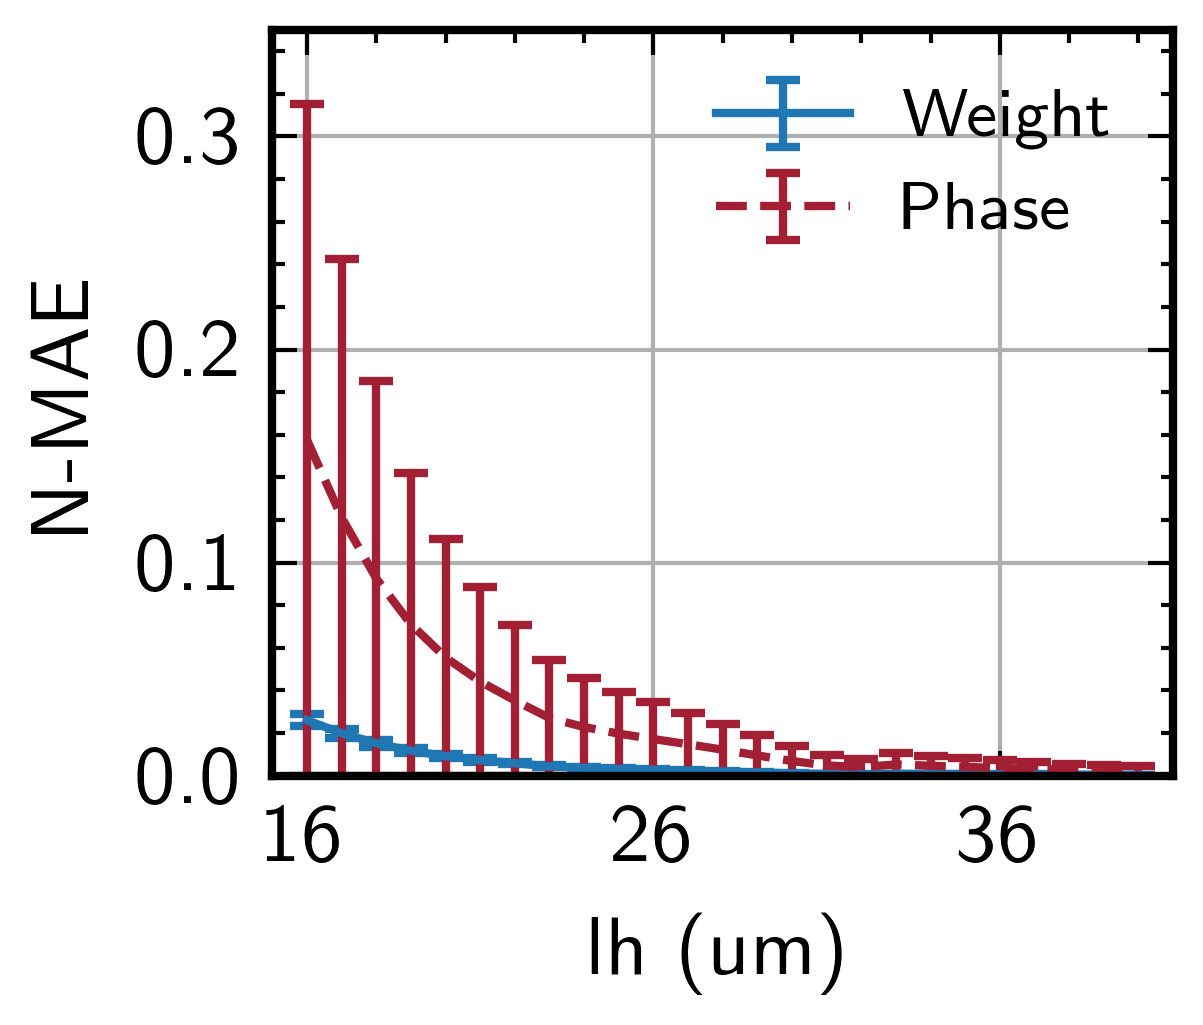
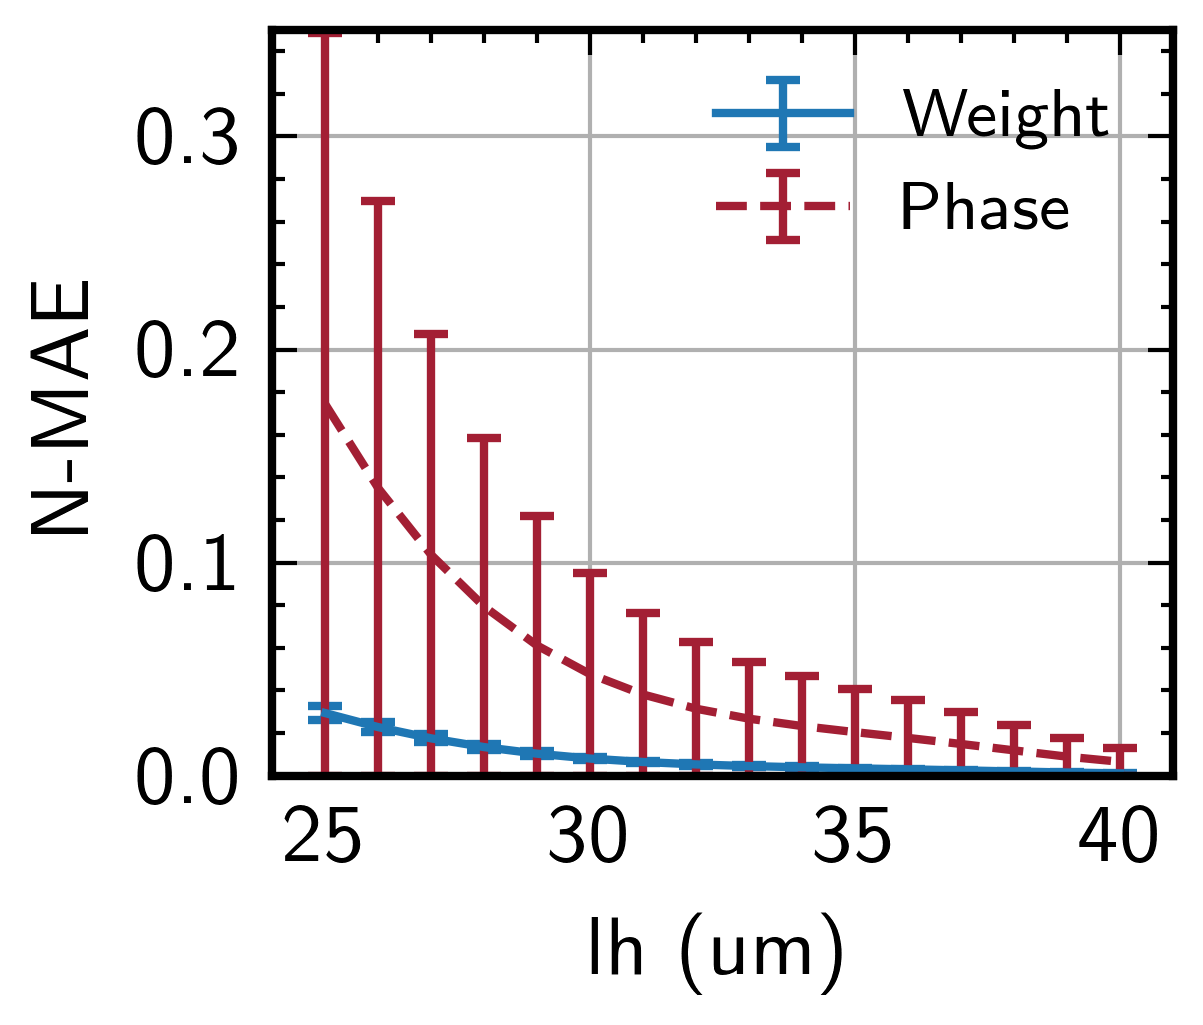
[202404026] new data for crosstalk

diff --git a/unitest/plot.py b/unitest/plot.py
@@ -134,18 +134,23 @@ def plot_lowrank_scanning2d_resnet():
 def plot_crosstalk():
     device = "cuda:0"
     layer = TeMPOBlockLinear(8000, 8, miniblock=[1, 1, 8, 8], device=device)
+
     crosstalk_scheduler = CrosstalkScheduler(
         crosstalk_coupling_factor=[
-            3.31603839e-07,
-            -1.39558126e-05,
-            -4.84365615e-05,
-            1.03081137e-02,
-            -1.77423805e-01,
+            3.55117528e-07,
+            -1.55789201e-05,
+            -8.29631681e-06,
+            9.89616761e-03,
+            -1.76013871e-01,
             1,
-        ],
+        ],  # y=p1*x^5+p2*x^4+p3*x^3+p4*x^2+p5*x+p6
+        crosstalk_exp_coupling_factor=[
+            0.2167267,
+            -0.12747211,
+        ],  # a * exp(b*x)
         interv_h=25,
-        interv_v=1200,
-        interv_s=10,
+        interv_v=120,
+        interv_s=19,
         device=device,
     )
     layer.crosstalk_scheduler = crosstalk_scheduler
@@ -159,8 +164,10 @@ def plot_crosstalk():
     phase_nmaes_mean = []
     phase_nmaes_std = []
     layer.set_crosstalk_noise(True)
+    interv_h_minmax = crosstalk_scheduler.ps_width + crosstalk_scheduler.interv_s, 41
+    interv_h_range = np.arange(*interv_h_minmax)
     with torch.no_grad():
-        for interv_h in range(16, 41):
+        for interv_h in interv_h_range:
             layer.crosstalk_scheduler.set_spacing(interv_h=interv_h)
             weight_noisy = layer.build_weight(
                 enable_noise=True, enable_ste=True
@@ -188,7 +195,7 @@ def plot_crosstalk():
     fig, ax, _ = batch_plot(
         "errorbar",
         raw_data={
-            "x": np.arange(16, 41),
+            "x": interv_h_range,
             "y": weight_nmaes_mean,
             "yerror": weight_nmaes_std,
         },
@@ -197,8 +204,8 @@ def plot_crosstalk():
         ylabel="N-MAE",
         fig=fig,
         ax=ax,
-        xrange=[16, 41.1, 10],
-        xlimit=[15, 41],
+        xrange=[interv_h_minmax[0], interv_h_minmax[1] + 0.1, 5],
+        xlimit=[interv_h_minmax[0] - 1, interv_h_minmax[1]],
         yrange=[0, 0.35, 0.1],
         xformat="%.0f",
         yformat="%.1f",
@@ -215,7 +222,7 @@ def plot_crosstalk():
     fig, ax, _ = batch_plot(
         "errorbar",
         raw_data={
-            "x": np.arange(16, 41),
+            "x": interv_h_range,
             "y": phase_nmaes_mean,
             "yerror": phase_nmaes_std,
         },
@@ -224,8 +231,8 @@ def plot_crosstalk():
         ylabel="N-MAE",
         fig=fig,
         ax=ax,
-        xrange=[16, 41.1, 10],
-        xlimit=[15, 41],
+        xrange=[interv_h_minmax[0], interv_h_minmax[1] + 0.1, 5],
+        xlimit=[interv_h_minmax[0] - 1, interv_h_minmax[1]],
         yrange=[0, 0.35, 0.1],
         xformat="%.0f",
         yformat="%.1f",
@@ -245,8 +252,105 @@ def plot_crosstalk():
     pdf_crop(f"./figs/{name}.pdf", f"./figs/{name}.pdf")
 
 
+def plot_spacing():
+    device = "cuda:0"
+    layer = TeMPOBlockLinear(8000, 8, miniblock=[1, 1, 8, 8], device=device)
+    crosstalk_scheduler = CrosstalkScheduler(
+        crosstalk_coupling_factor=[
+            3.55117528e-07,
+            -1.55789201e-05,
+            -8.29631681e-06,
+            9.89616761e-03,
+            -1.76013871e-01,
+            1,
+        ],  # y=p1*x^5+p2*x^4+p3*x^3+p4*x^2+p5*x+p6
+        crosstalk_exp_coupling_factor=[
+            0.2167267,
+            -0.12747211,
+        ],  # a * exp(b*x)
+        interv_h=25,
+        interv_v=1200,
+        interv_s=10,
+        device=device,
+    )
+    layer.crosstalk_scheduler = crosstalk_scheduler
+    # layer.weight.data.fill_(-1)
+    weight = layer.build_weight(enable_noise=False, enable_ste=True).detach()
+    phase, _ = layer.build_phase_from_weight(weight.data)
+    phase = phase.clone()
+
+    weight_nmaes_mean = []
+    phase_nmaes_mean = []
+    power_mean = []
+    layer.set_crosstalk_noise(True)
+    interv_s_range = np.arange(7, 25)
+    interv_h_range = np.arange(16, 41)
+    interv_s_mixmax = (7, 10)
+    interv_h_mixmax = (16, 30)
+    interv_s_range = np.arange(*interv_s_mixmax)
+    interv_h_range = np.arange(*interv_h_mixmax)
+    with torch.no_grad():
+        for interv_s in interv_s_range:
+            weight_nmaes_mean_tmp = []
+            for interv_h in interv_h_range:
+                try:
+                    layer.crosstalk_scheduler.set_spacing(
+                        interv_h=interv_h, interv_s=interv_s
+                    )
+                except:
+                    weight_nmaes_mean_tmp.append(0)
+                    continue
+                weight_noisy = layer.build_weight(
+                    enable_noise=True, enable_ste=True
+                ).detach()
+
+                # print(phase_noisy[0, 0, 0, 0])
+                # print(phase[0, 0, 0, 0])
+
+                weight_nmae = torch.norm(
+                    weight_noisy - weight, p=2, dim=(-2, -1)
+                ) / weight.norm(1, dim=(-2, -1))
+                weight_nmaes_mean_tmp.append(weight_nmae.mean().item())
+
+                print(
+                    f"interv_h: {interv_h}, N-MAE: weight={weight_nmae.mean().item():.5f}"
+                )
+            weight_nmaes_mean.append(weight_nmaes_mean_tmp)
+            power = (
+                layer.calc_weight_MZI_power(reduction="none")
+                .sum(dim=[-4, -3, -2, -1])
+                .mean()
+                .item()
+            )
+            power_mean.append(power)
+    weight_nmaes_mean = np.array(weight_nmaes_mean)
+    print(weight_nmaes_mean.shape)
+    print(interv_s_range.shape)
+    print(interv_h_range.shape)
+    fig, ax = plt.subplots(1, 1)
+
+    name = "PowerCrosstalkSpacing"
+    im = ax.pcolormesh(
+        interv_s_range,
+        interv_h_range,
+        weight_nmaes_mean,
+        vmin=np.min(weight_nmaes_mean),
+        vmax=np.max(weight_nmaes_mean),
+        shading="nearest",
+        cmap=plt.cm.RdYlGn,
+    )
+    fig.colorbar(im, ax=ax)
+
+    set_ms()
+    ensure_dir(f"./figs")
+    fig.savefig(f"./figs/{name}.png")
+    fig.savefig(f"./figs/{name}.pdf")
+    pdf_crop(f"./figs/{name}.pdf", f"./figs/{name}.pdf")
+
+
 if __name__ == "__main__":
     # for sp_mode in ["uniform", "topk", "IS"]:
     #     for sa_mode in ["first_grad", "second_grad"]:
     #         plot_sparsity(sp_mode=sp_mode, sa_mode=sa_mode)
-    plot_crosstalk()
+    # plot_crosstalk()
+    plot_spacing()

diff --git a/unitest/test_crosstalk_fit.py b/unitest/test_crosstalk_fit.py
@@ -1,7 +1,7 @@
 '''
 Date: 2024-04-23 02:19:26
 LastEditors: Jiaqi Gu && jiaqigu@asu.edu
-LastEditTime: 2024-04-23 13:27:01
+LastEditTime: 2024-04-26 11:13:15
 FilePath: /SparseTeMPO/unitest/test_crosstalk_fit.py
 '''
 """
@@ -10,7 +10,7 @@ LastEditors: Jiaqi Gu && jiaqigu@asu.edu
 LastEditTime: 2024-04-22 17:54:07
 FilePath: /SparseTeMPO/unitest/test_crosstalk_fit.py
 """
-
+import pandas as pd
 import numpy as np
 import matplotlib.pyplot as plt
 from scipy.optimize import curve_fit
@@ -31,51 +31,55 @@ def func(x, a, b, c, d, e, f):
 def exp_func(x, a, b):
     return a * np.exp(b * x)
 
+def linear_func(x, a):
+    return a * x
 
 ## used to fit polynomial
 # xdata = np.array([7, 8, 9, 10, 12, 15, 20])
 # ydata = np.array([0.23813, 0.17764, 0.13674, 0.10934, 0.07203, 0.04148, 0.0134])
 
-xdata = np.array([7, 8, 9, 10, 12, 15, 18, 20, 23, 24, 25])
-ydata = np.array(
-    [
-        0.22030956,
-        0.16927033,
-        0.12758723,
-        0.10066663,
-        0.06864623,
-        0.03907187,
-        0.02318678,
-        0.01727944,
-        0.01151909,
-        0.01027955,
-        0.00897099,
-    ]
-)
+df = pd.read_csv("./unitest/MZIPower.csv")
+print(df)
+# end = 22
+end = 34 # 7um at P_pi
+power = df.iloc[2:end, 1].astype('float32').to_numpy()
+gamma_list = []
+distances = []
+for i in range(1, 12):
+    phi2 = df.iloc[2:end, 1+4*i].astype('float32').to_numpy()
+    phi1 = df.iloc[2:end, 4*i].astype('float32').to_numpy()
+    distance = df.iloc[0:1, i*4-2].astype('float32').to_numpy()[0]
+    popt_poly, pcov = curve_fit(linear_func, phi2, phi1)
+    gamma_list.append(popt_poly[0])
+    distances.append(distance)
+distances = np.array(distances)
+gamma_list = np.array(gamma_list)
+print(distances)
+print(gamma_list)
 
 
 def poly_func(x, a, b, c, d, e):
     return a * x**5 + b * x**4 + c * x**3 + d * x**2 + e * x + 1
 
 
-popt_poly, pcov = curve_fit(poly_func, xdata[:9], ydata[:9])
-print(popt_poly, pcov)
-ypred1 = poly_func(xdata[:9], *popt_poly)
-print(r2_score(ydata[:9], ypred1))
+popt_poly, pcov = curve_fit(poly_func, distances[:9], gamma_list[:9])
+print("Polynomial Coefficients:", popt_poly)
+ypred1 = poly_func(distances[:9], *popt_poly)
+print(r2_score(gamma_list[:9], ypred1))
 print(ypred1)
-print(ydata[:9])
+print(gamma_list[:9])
 # print(polynomial(torch.from_numpy(xdata[:9]).float(), torch.tensor(popt_poly.tolist() + [1])))
 # print(popt_poly[0]*(xdata[:9]**5) + popt_poly[1]*(xdata[:9]**4) + popt_poly[2]*(xdata[:9]**3) + popt_poly[3]*(xdata[:9]**2) + popt_poly[4]*xdata[:9] + 1)
 # coeff = torch.tensor(popt_poly)
 # xdata_th = torch.from_numpy(xdata[:9])
 # print(coeff[0]*xdata_th**5+coeff[1]*xdata_th**4+coeff[2]*xdata_th**3+coeff[3]*xdata_th**2+coeff[4]*xdata_th+1)
 
-popt_exp, pcov = curve_fit(exp_func, xdata[8:], ydata[8:])
-print(popt_exp, pcov)
-ypred2 = exp_func(xdata[8:], *popt_exp)
-print(r2_score(ydata[8:], ypred2))
+popt_exp, pcov = curve_fit(exp_func, distances[8:], gamma_list[8:])
+print("Exponential Coefficients:", popt_exp)
+ypred2 = exp_func(distances[8:], *popt_exp)
+print(r2_score(gamma_list[8:], ypred2))
 print(ypred2)
-print(ydata[8:])
+print(gamma_list[8:])
 
 
 def func(x, popt_poly, popt_exp):
@@ -85,7 +89,7 @@ def func(x, popt_poly, popt_exp):
 xdata1 = np.linspace(0, 30, 100)
 fig, ax = plt.subplots(1, 1, figsize=(3,2.5))
 ax.plot(xdata1, func(xdata1, popt_poly, popt_exp), "b-", label="data")
-ax.plot(xdata, ydata, "ro", label="data")
+ax.plot(distances, gamma_list, "ro", label="data")
 print("here")
 plt.savefig("./unitest/figs/crosstalk_fit.png", dpi=300)
 

diff --git a/unitest/test_non_ideality.py b/unitest/test_non_ideality.py
@@ -17,6 +17,7 @@ from core.models.layers.utils import CrosstalkScheduler, SparsityEnergyScheduler
 from core.utils import get_parameter_group, register_hidden_hooks
 from pyutils.plot import batch_plot
 
+
 def test_mode_switch():
     device = "cuda:0"
     layer = TeMPOBlockLinear(4, 4, device=device)
@@ -34,13 +35,17 @@ def test_crosstalk():
     layer = TeMPOBlockLinear(4, 4, miniblock=[1, 1, 4, 4], device=device)
     crosstalk_scheduler = CrosstalkScheduler(
         crosstalk_coupling_factor=[
-            3.31603839e-07,
-            -1.39558126e-05,
-            -4.84365615e-05,
-            1.03081137e-02,
-            -1.77423805e-01,
+            3.55117528e-07,
+            -1.55789201e-05,
+            -8.29631681e-06,
+            9.89616761e-03,
+            -1.76013871e-01,
             1,
-        ],
+        ],  # y=p1*x^5+p2*x^4+p3*x^3+p4*x^2+p5*x+p6
+        crosstalk_exp_coupling_factor=[
+            0.2167267,
+            -0.12747211,
+        ],  # a * exp(b*x)
         interv_h=25,
         interv_v=1200,
         interv_s=10,
@@ -66,7 +71,9 @@ def test_crosstalk():
         phase_nmae = torch.norm(phase_noisy - phase, p=1) / phase.norm(1)
         weight_nmaes.append(weight_nmae.item())
         phase_nmaes.append(phase_nmae.item())
-        print(f"interv_h: {interv_h}, N-MAE: weight={weight_nmae:.5f} phase={phase_nmae:.5f}")
+        print(
+            f"interv_h: {interv_h}, N-MAE: weight={weight_nmae:.5f} phase={phase_nmae:.5f}"
+        )
     fig, axes = plt.subplots(2, 1, figsize=(6, 8))
     axes[0].plot(range(16, 41), weight_nmaes)
     axes[0].set_xlabel("interv_h (um)")
@@ -76,8 +83,7 @@ def test_crosstalk():
     axes[1].set_ylabel("Phase N-MAE")
     plt.savefig("./unitest/figs/crosstalk_interv_h.png", dpi=300)
 
-
-    # crosstalk_scheduler.interv_h = 15   
+    # crosstalk_scheduler.interv_h = 15
     # for i in range(2):
     #     for j in range(2):
     #         for k in range(2):
@@ -85,6 +91,7 @@ def test_crosstalk():
     #                 mask = torch.tensor([i, j, k, l], device=device)
     #                 score = crosstalk_scheduler.calc_crosstalk_score(mask=mask, is_col=False)
     #                 print(f"mask: {mask}, score: {score}")
+
 
 def test_output_noise():
     device = "cuda:0"

diff --git a/core/models/layers/utils.py b/core/models/layers/utils.py
@@ -59,6 +59,7 @@ def polynomial(x: Tensor, coeff: Tensor) -> Tensor:
     out = x.matmul(coeff[:-1]).add_(coeff[-1])
     return out
 
+
 def polynomial2(
     x: Tensor | float, y: Tensor | float, coeff: Tensor | List[float]
 ) -> Tensor | float:
@@ -558,16 +559,16 @@ class CrosstalkScheduler(object):
     def __init__(
         self,
         crosstalk_coupling_factor: Tuple[float, ...] = [
-            3.31603839e-07,
-            -1.39558126e-05,
-            -4.84365615e-05,
-            1.03081137e-02,
-            -1.77423805e-01,
+            3.55117528e-07,
+            -1.55789201e-05,
+            -8.29631681e-06,
+            9.89616761e-03,
+            -1.76013871e-01,
             1,
         ],  # y=p1*x^5+p2*x^4+p3*x^3+p4*x^2+p5*x+p6
         crosstalk_exp_coupling_factor: float = [
-            0.20046825,
-            -0.12407693,
+            0.2167267,
+            -0.12747211,
         ],  # a * exp(b*x)
         interv_h: float = 24.0,  # horizontal spacing (unit: um) between the center of two MZIs
         interv_v: float = 120.0,  # vertical spacing (unit: um) between the center of two MZIs
